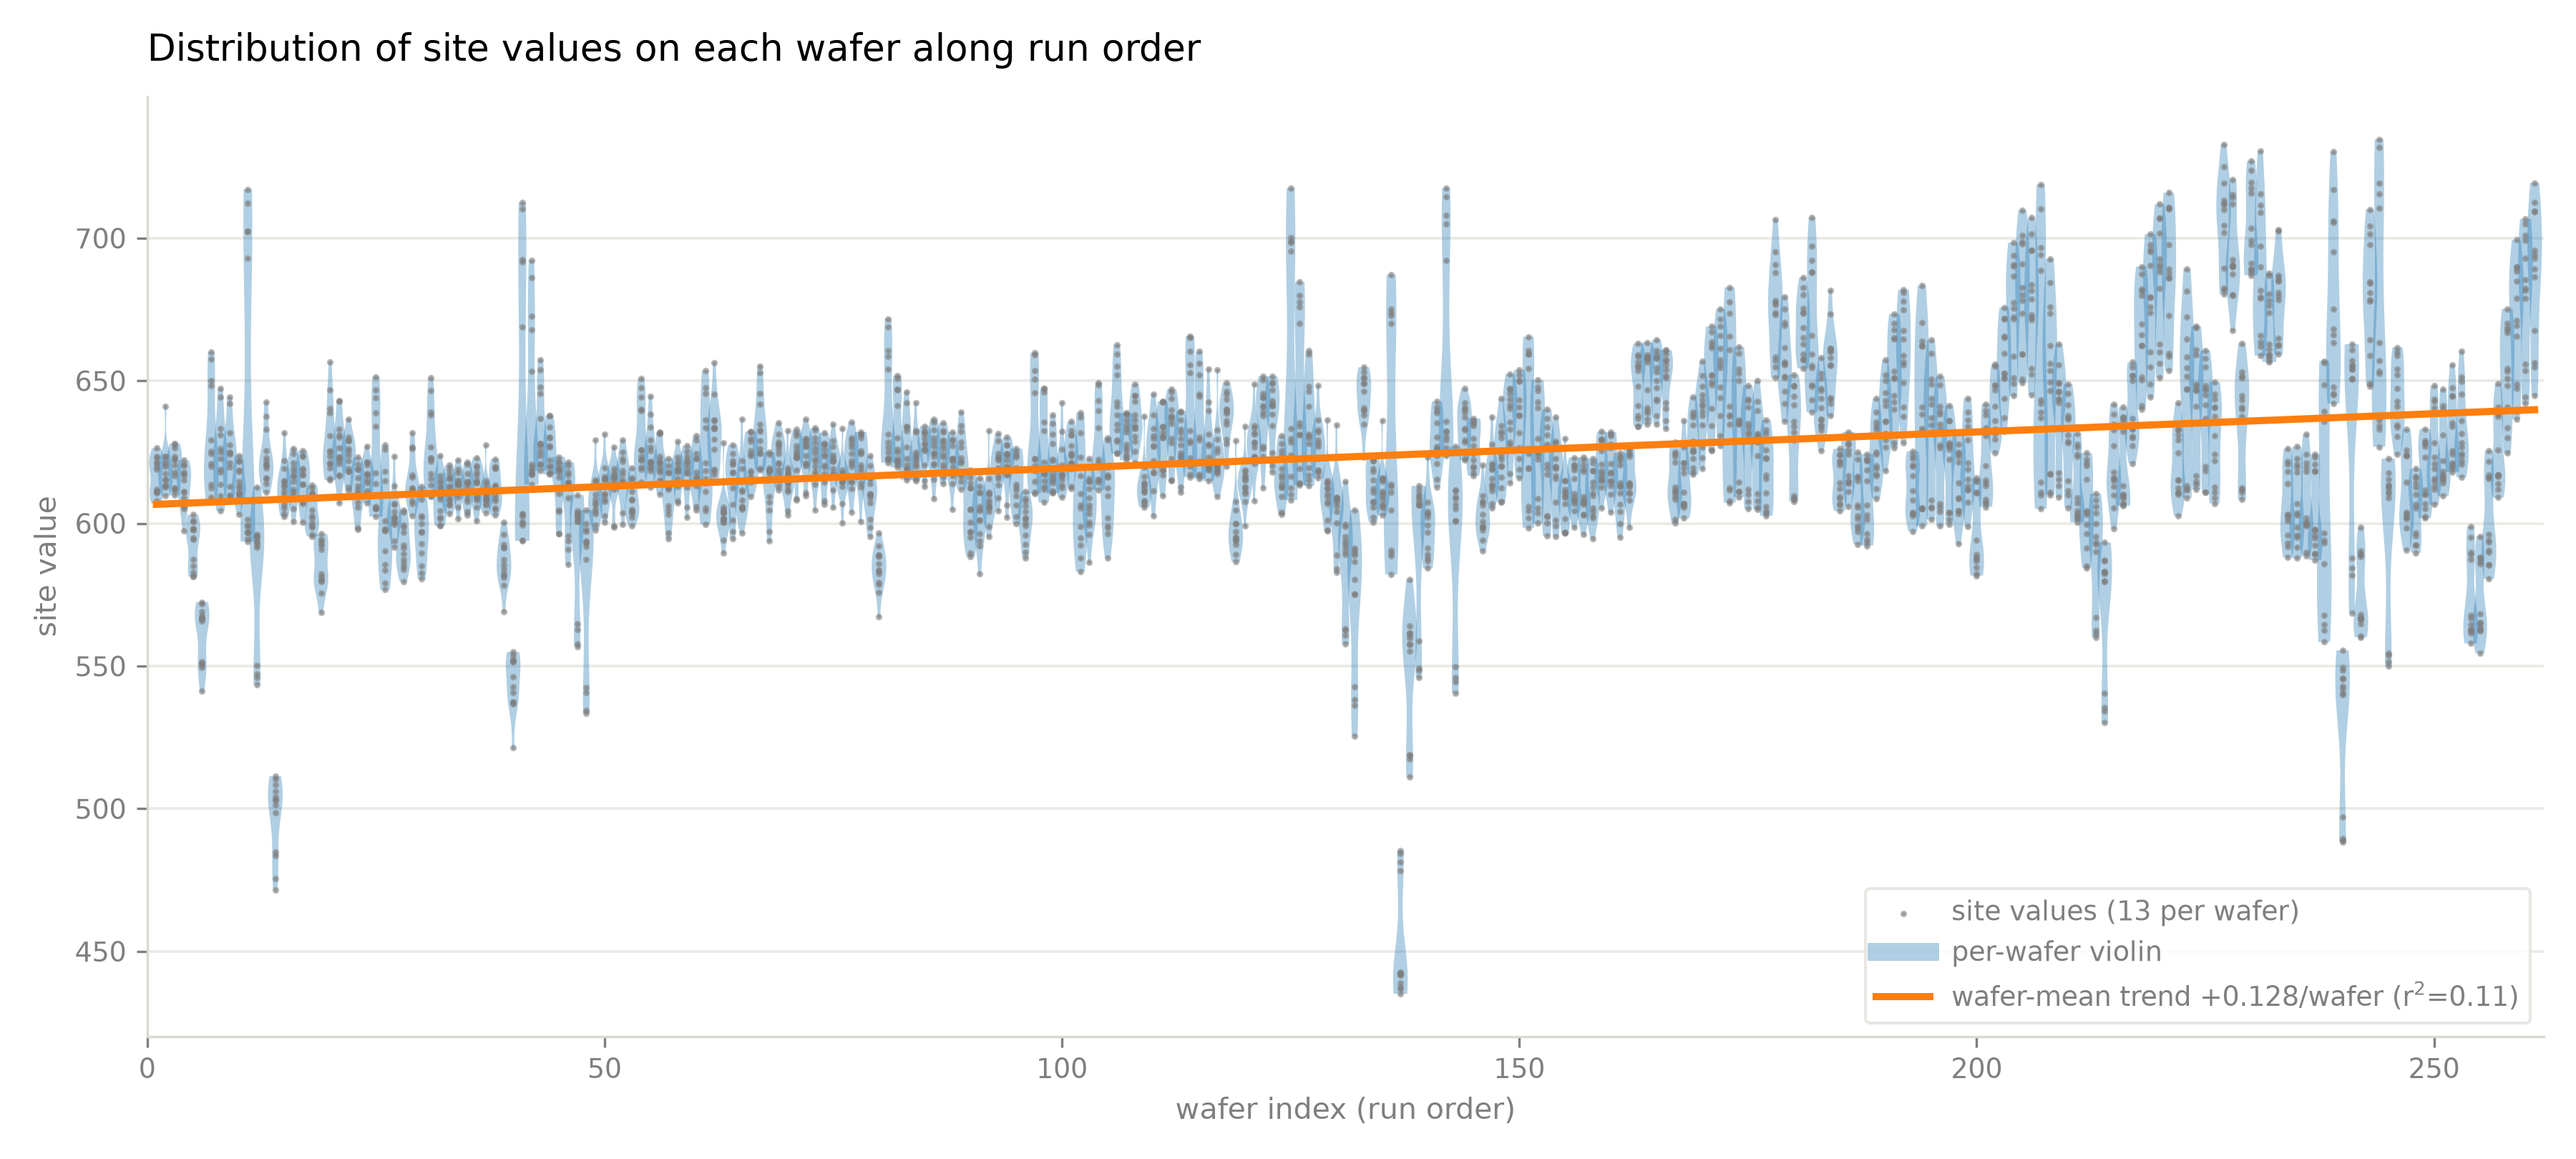
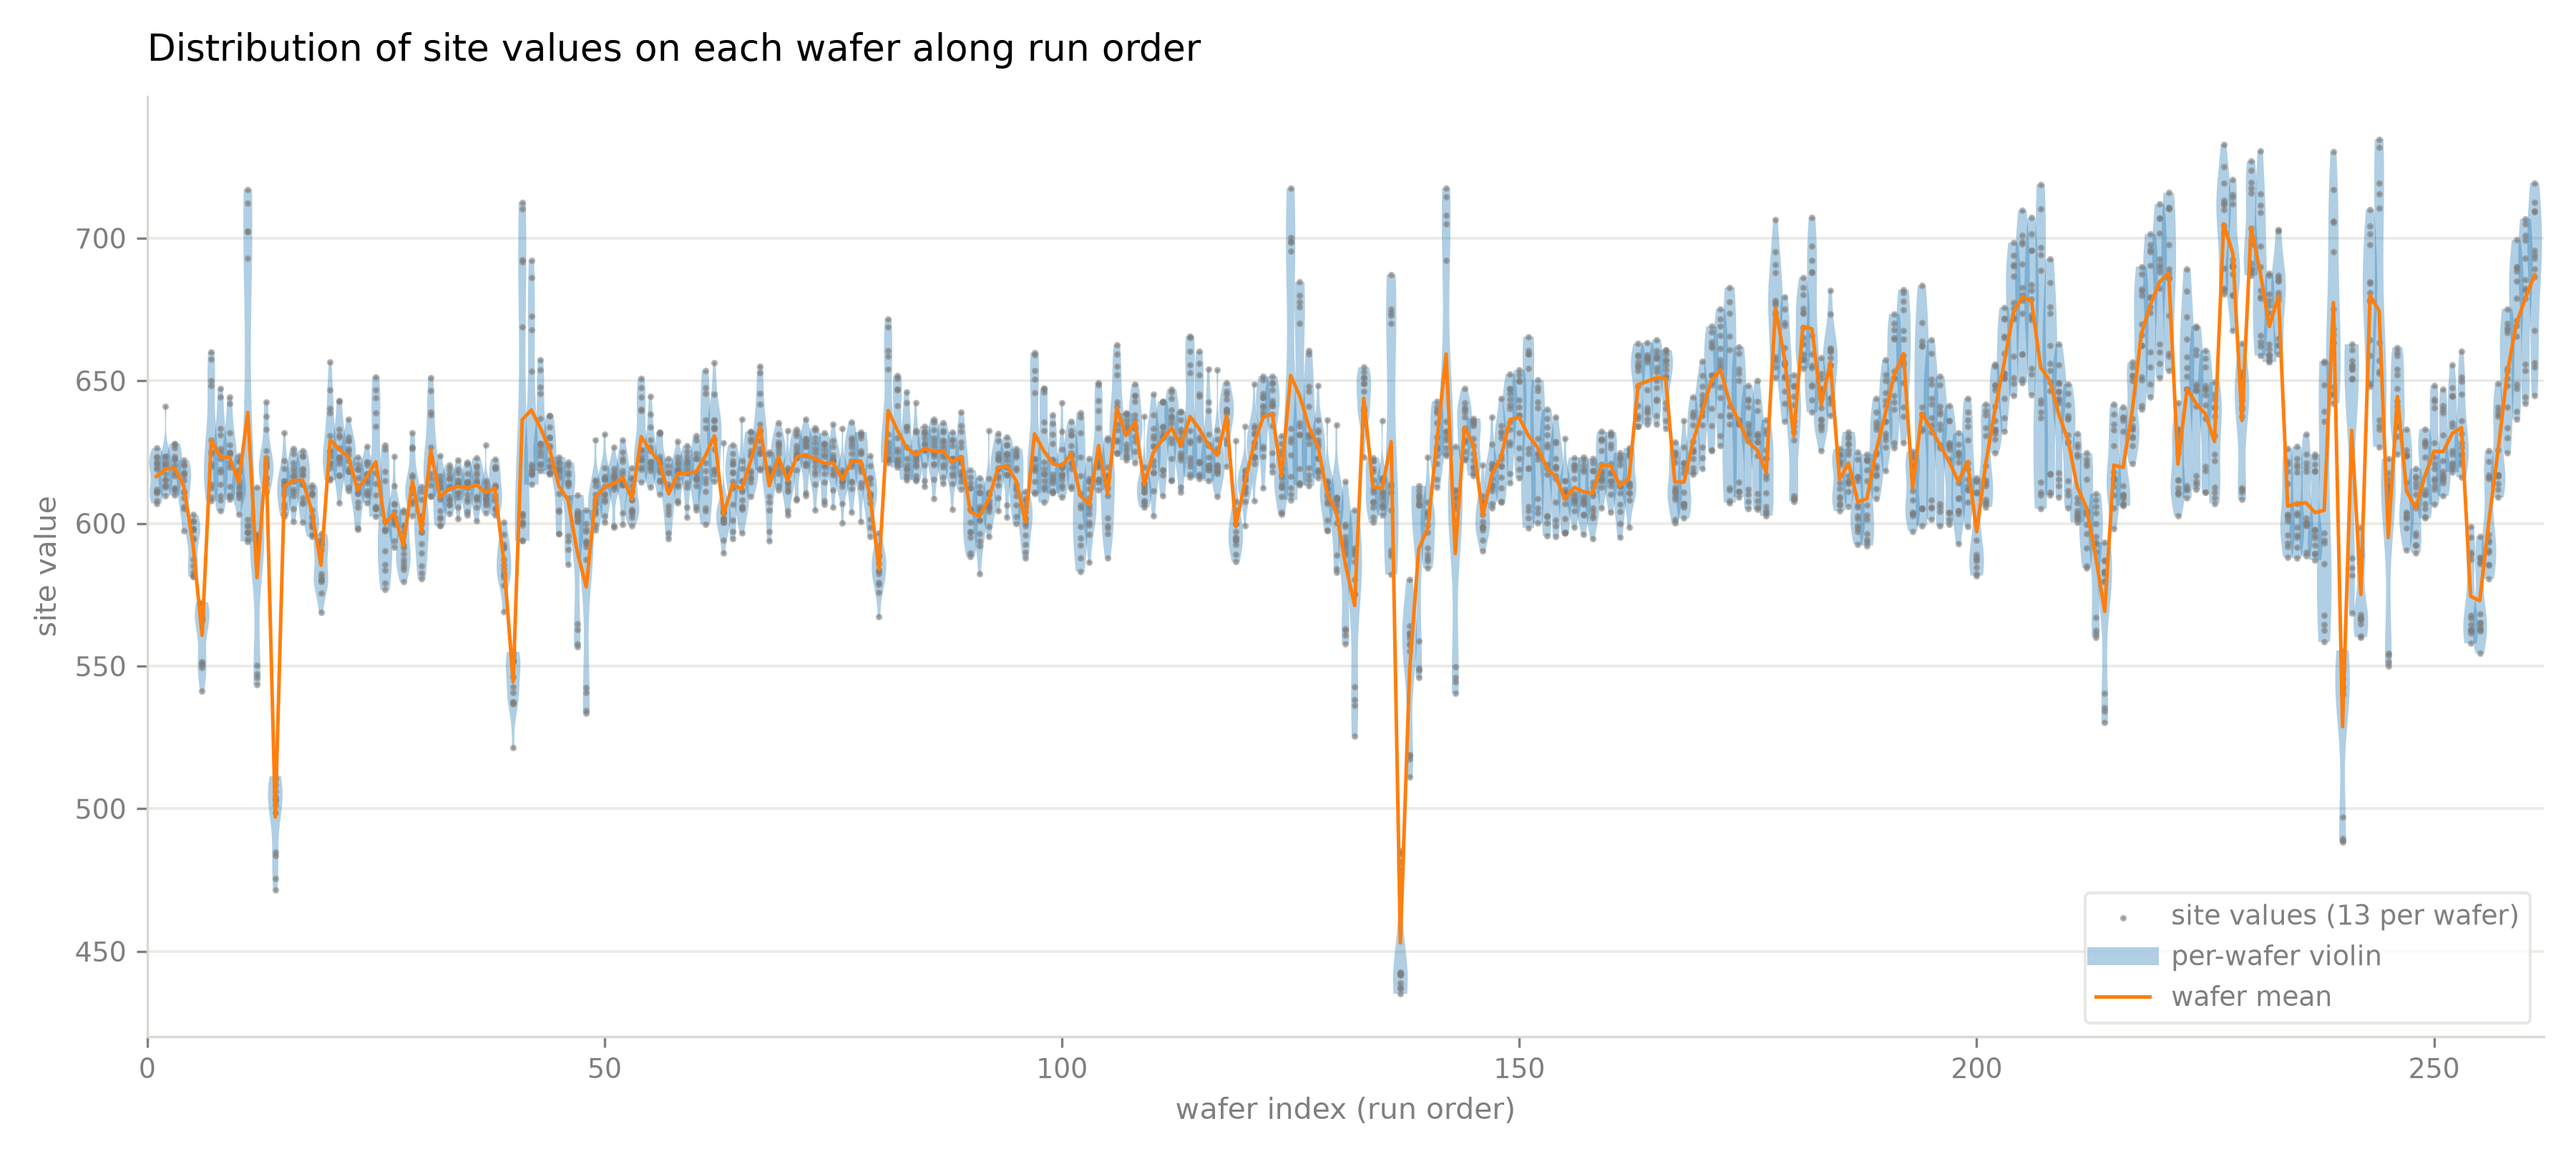
Trace the wafer means on the site value figure
Replace the fitted line with the wafer means themselves, so the figure shows
where each wafer sat rather than the slope through them.

Claude-Session: https://claude.ai/code/session_01EmRuphkFeGWkDYDUkauFqt

diff --git a/EDA/Variability/WiW-W2W/wiw_w2w_anova.py b/EDA/Variability/WiW-W2W/wiw_w2w_anova.py
@@ -11,10 +11,11 @@ Changelog:
 - 0.4.0: give the w2w detection point its own class.
 - 0.5.0: draw the site value figure one violin per wafer.
 - 0.6.0: add the rolling components and the figure that draws them over run order.
+- 0.7.0: trace the wafer means on the site value figure instead of their linear trend.
 """
 
 __author__ = 'yRocket'
-__version__ = "0.6.0.2026.9.3"
+__version__ = "0.7.0.2026.9.3"
 
 import argparse
 import pathlib
@@ -240,7 +241,6 @@ class WaferMeasurements:
         samples = self.frame.stack().rename('site_value').reset_index()
         samples.columns = [WAFER_ID_COLUMN, 'site', 'site_value']
         samples.to_csv(sample_path, index=False)                  # the samples the violins were drawn from
-        slope, intercept, r_value, _, _ = stats.linregress(self.order, self.wafer_mean)
 
         font_size = self._font_size()
         figure, axes = plt.subplots(figsize=FIGSIZE)
@@ -253,8 +253,7 @@ class WaferMeasurements:
         axes.scatter(np.repeat(self.order, self.site_count), self.values.ravel(), s=1.5, color=COLOR_INK,
                      alpha=0.55, zorder=4, label=f"site values ({self.site_count} per wafer)")
         axes.plot([], [], color=COLOR_OBSERVED, lw=6, alpha=0.35, label="per-wafer violin")
-        axes.plot(self.order, intercept + slope * self.order, color=COLOR_TREND, lw=2.4, zorder=6,
-                  label=f"wafer-mean trend {slope:+.3f}/wafer (r$^2$={r_value ** 2:.2f})")
+        axes.plot(self.order, self.wafer_mean, color=COLOR_TREND, lw=1.2, zorder=6, label="wafer mean")
         axes.set_xlim(0, self.wafer_count + 1)
         axes.grid(axis='y', color='#ebeae5', lw=0.9)
         self._finish(axes=axes, title="Distribution of site values on each wafer along run order",

diff --git a/EDA/Variability/WiW-W2W/wiw-w2w-anova.md b/EDA/Variability/WiW-W2W/wiw-w2w-anova.md
@@ -1,5 +1,5 @@
 # Within-Wafer and Wafer-to-Wafer Variance Decomposition
-Rev. 40 | Created: 2026-09-01 | Updated: 2026-09-03 17:31 CDT
+Rev. 41 | Created: 2026-09-01 | Updated: 2026-09-03 17:35 CDT
 
 > ANOVA (analysis of variance) 는 관측치의 전체 산포를 몇 개의 원인으로 나누어, 어느 원인이 얼마나 기여하는지 수치로 보이는 방법이다.
 
@@ -55,11 +55,11 @@ $$S_{\mathrm{total}} \approx \sqrt{\overline{S_{\mathrm{within}}^2} + S_{\mathrm
 - Wafer 평균: 최소 452.9, 최대 705.0, 표준편차 28.70.
 - Within-wafer range: 평균 41.32, 최대 123.46.
 
-Wafer 한 장을 violin 하나로 두고 run order 로 늘어놓으면, 분포의 위치와 폭이 wafer 마다 함께 움직이는 것이 보인다. 앞쪽 wafer 는 610 대에 모여 있다가 뒤쪽에서 650 근처까지 올라가고, 아래로 홀로 처진 wafer 는 그 자리에서 값이 크게 낮았다는 뜻이다. wafer 당 site 가 13 개뿐이라 violin 의 모양 자체는 거칠어서 site 값 13 점을 그대로 겹쳐 찍었다. 겹쳐 그린 wafer 평균의 선형 추세선은 같은 상승을 한 줄로 요약한다.
+Wafer 한 장을 violin 하나로 두고 run order 로 늘어놓으면, 분포의 위치와 폭이 wafer 마다 함께 움직이는 것이 보인다. 앞쪽 wafer 는 610 대에 모여 있다가 뒤쪽에서 650 근처까지 올라가고, 아래로 홀로 처진 wafer 는 그 자리에서 값이 크게 낮았다는 뜻이다. wafer 당 site 가 13 개뿐이라 violin 의 모양 자체는 거칠어서 site 값 13 점을 그대로 겹쳐 찍었다. 겹쳐 그린 선은 wafer 평균을 이은 것으로, 위치가 wafer 마다 얼마나 튀는지 보여준다.
 
 <img src="wiw-w2w-anova_fig/site_value_violin.png" width="900" style="max-width: 100%;" alt="Fig 1">
 
-Fig 1. Distribution of the site values on each wafer along run order, with the linear trend of the wafer means
+Fig 1. Distribution of the site values on each wafer along run order, with the wafer means traced
 
 ## 3. Variance Decomposition
 
